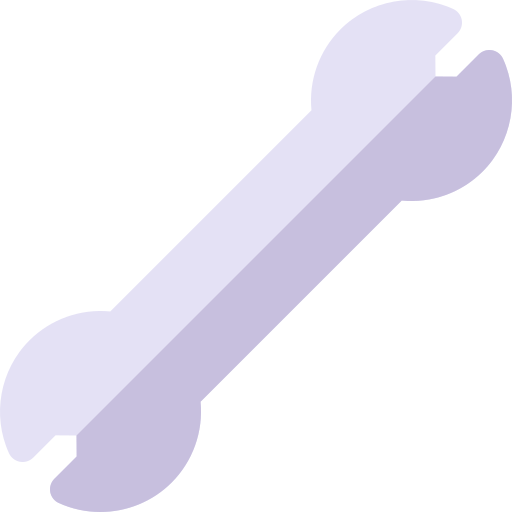
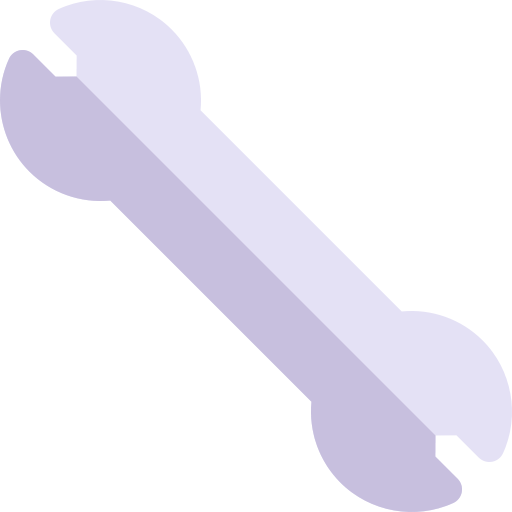
work on production content

diff --git a/src/style/components/production-content.scss b/src/style/components/production-content.scss
@@ -124,7 +124,6 @@
             width: 25%;
         }
         .screwdriver {
-            transform: translateX(60vw);
             transition: all ease 1s;
             z-index: 200;
             @keyframes dongleSkrew {
@@ -146,23 +145,22 @@
             }
         }
         .wrench {
-            transform: rotate(-90deg) translateY(-60vw);
             transition: all ease 1s;
             @keyframes dongleWrench {
                 0% {
-                    transform: rotate(-90deg);
+                    transform: rotate(0deg);
                 }
                 20% {
-                    transform: rotate(-110deg);
+                    transform: rotate(-20deg);
                 }
                 40% {
-                    transform: rotate(-70deg);
+                    transform: rotate(20deg);
                 }
                 60% {
-                    transform: rotate(-100deg);
+                    transform: rotate(-10deg);
                 }
                 80% {
-                    transform: rotate(-90deg);
+                    transform: rotate(0deg);
                 }
             }
         }
@@ -170,8 +168,6 @@
 }
 
 @media screen and (orientation: portrait) {
-    @import url("https://fonts.googleapis.com/css2?family=Press+Start+2P&display=swap");
-
     .production-content {
         padding-top: 15%;
         height: 100%;
@@ -241,22 +237,22 @@
                 }
             }
             .wrench {
-                transform: rotate(-90deg) translateY(-50%);
+                transform: translateX(-50%);
                 @keyframes dongleWrench {
                     0% {
-                        transform: rotate(-90deg) translateY(-50%);
+                        transform: rotate(0deg) translateX(-50%); 
                     }
                     20% {
-                        transform: rotate(0deg);
+                        transform: rotate(90deg);
                     }
                     40% {
-                        transform: rotate(-90deg) translateY(-50%);
+                        transform: rotate(0deg) translateX(-50%);
                     }
                     60% {
-                        transform: rotate(0deg);
+                        transform: rotate(90deg);
                     }
                     80% {
-                        transform: rotate(-90deg) translateY(-50%);
+                        transform: rotate(0deg) translateX(-50%);
                     }
                 }
             }

diff --git a/src/pages/ProductionContent.js b/src/pages/ProductionContent.js
@@ -37,18 +37,18 @@ const ProductionContent = () => {
 
         // tools animation 
         if (window.matchMedia("(orientation:portrait)").matches) {
-             setTimeout(() => {
-            screwdriver.style.animation = "dongleSkrew 2s ease-in-out"
-            wrench.style.animation = "dongleWrench 2s ease-in-out"
-        }, 100)
-        } else {
             setTimeout(() => {
-                screwdriver.style.transform = "translate(100%, 0)";
-                wrench.style.transform = "rotate(-90deg) translateY(-100%)";
-            }, 900)
-            screwdriver.style.animation = "dongleSkrew 2s ease-in-out"
-            wrench.style.animation = "dongleWrench 2s ease-in-out"
-        }
+           screwdriver.style.animation = "dongleSkrew 2s ease-in-out"
+           wrench.style.animation = "dongleWrench 2s ease-in-out"
+       }, 100)
+       } else {
+           setTimeout(() => {
+               screwdriver.style.transform = "translate(100%, 0)";
+               wrench.style.transform = "translate(-100%, 0)";
+           }, 900)
+           screwdriver.style.animation = "dongleSkrew 2s ease-in-out"
+           wrench.style.animation = "dongleWrench 2s ease-in-out"
+       }
 
         // arrow events
         arrowDiv.addEventListener('mouseover', onMouseOverArrow);
